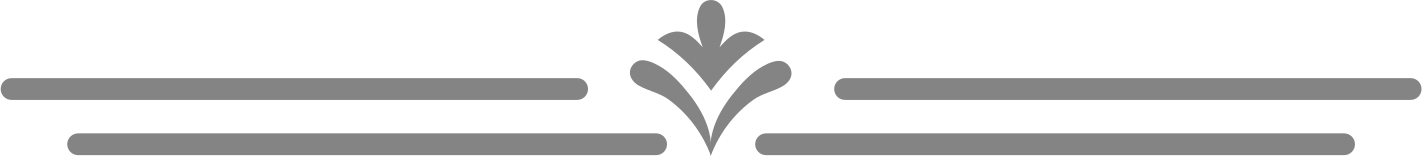
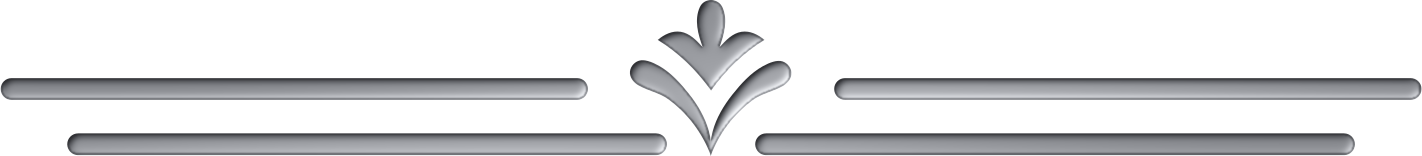
Inner title page (silver cover) and credits page; antique silver ornaments across the booklet (sources, in progress)
Claude-Session: https://claude.ai/code/session_0161ijXJJcwCxR7y44e5HXLU

Changed region(s): [[0.0, 0.0, 0.9592, 1.0], [0.5879, 0.4872, 1.0, 0.641]]

diff --git a/typeset/engine.js b/typeset/engine.js
@@ -38,7 +38,7 @@
   // the two curved lines and the two lines under the circle in FrankRuehl DP.  Everything is laid out in a 1408 x 2000 unit grid (= the page, 8 units per mm).
   function coverHTML(cfg, bookName, opt) {
     opt = opt || {};
-    const C = cfg.cover, G = C.geometry, T = Object.assign({}, C.texts || {}, opt.texts || {}), col = C.colors, dy = opt.dy || 0;
+    const C = cfg.cover, G = C.geometry, T = Object.assign({}, C.texts || {}, opt.texts || {}), col = opt.colors || C.colors, dy = opt.dy || 0;
     const image = opt.image || C.image;
     const uid = opt.uid || '';          // ids of the gradients / arcs must be unique in the document (the book holds the cover and all the dividers)
     const words = bookName.split(/\s+/).filter(Boolean);
@@ -89,7 +89,7 @@
       `<svg xmlns="http://www.w3.org/2000/svg" viewBox="0 0 1408 2000" style="position:absolute;left:0;top:0;width:100%;height:100%">` +
       `<defs><path id="cvTop${uid}" d="${arc(G.top, 1)}"/><path id="cvBot${uid}" d="${arc(G.bottom, 0)}"/>${gradDefs}</defs>` +
       (opt.group ? `<g transform="${opt.group}">${medal}</g>` : medal) + labels +
-      (lg ? `<image href="${C.logo.image}" x="${(lg.x - lw / 2).toFixed(1)}" y="${lg.top}" width="${lw.toFixed(1)}" height="${lg.h}"/>` : '') +
+      (lg ? `<image href="${opt.logoImage || C.logo.image}" x="${(lg.x - lw / 2).toFixed(1)}" y="${lg.top}" width="${lw.toFixed(1)}" height="${lg.h}"/>` : '') +
       `</svg>`;
   }
 
@@ -110,6 +110,27 @@
     return coverHTML(c2, bookName, { uid: 'd' + (dividerHTML.n = (dividerHTML.n || 0) + 1), image: D.image, logo: false, texts: Object.assign({ line1: '', line2: '' }, m.arcs === false ? { arcTop: '', arcBottom: [] } : {}),
       group: `translate(${m.cx * 8} ${m.cy * 8}) scale(${m.scale}) translate(-711 -749)`,
       labels: [mk(l1, Lb.y1, Lb.size1), mk(l2, Lb.y2, short ? Lb.numeral : Lb.word)].filter((x) => x.txt) });
+  }
+
+  // the inner title page: the cover again, in black / white / grey / silver (artwork by make_cover.py: the silver palette; logo in grey)
+  function innerCoverHTML(cfg, bookName) {
+    const IC = cfg.innerCover;
+    return coverHTML(cfg, bookName, { uid: 'ic', image: IC.image, colors: IC.colors || (cfg.divider && cfg.divider.colors) || cfg.cover.colors, logoImage: IC.logo });
+  }
+
+  // the credits page: the two ornamented pillars of the dividers (artwork by make_divider.py, kind 'credits'), all the details between them, the small flourish between the
+  // details; the items (texts, logos, separators) are listed in config.json -> credits.items
+  function creditsHTML(cfg) {
+    const K = cfg.credits, F = cfg.fonts || {}, axis = (cfg.divider && cfg.divider.axis) || 57.7, fam = { body: F.body, display: F.display, lead: F.lead };
+    const gapOf = (it) => (it.gap !== undefined ? it.gap : K.gap);
+    const items = K.items.map((it) => {
+      if (it.sep) return `<img src="${K.sep.image}" style="width:${K.sep.w}mm;display:block;margin:0 0 ${gapOf(it)}mm">`;
+      if (it.logo) return `<img src="${it.logo}" style="width:${it.w}mm;display:block;margin:0 0 ${gapOf(it)}mm">`;
+      return `<div style="font-family:'${fam[it.font || 'body']}';font-size:${it.size}pt;line-height:${it.lh || 1.3};${it.bold ? 'font-weight:700;' : ''}margin:0 0 ${gapOf(it)}mm">${it.html}</div>`;
+    }).join('');
+    return `<img src="${K.image}" style="position:absolute;left:0;top:0;width:100%;height:100%">` +
+      `<style>.crd b{font-weight:700}</style>` +
+      `<div class="crd" style="position:absolute;left:${(axis - K.box.w / 2).toFixed(2)}mm;width:${K.box.w}mm;top:${K.box.top}mm;bottom:${K.box.bottom}mm;display:flex;flex-direction:column;align-items:center;justify-content:center;text-align:center;direction:rtl;color:#1c1c1c">${items}</div>`;
   }
 
   // ---------------------------------------------------------------- engine
@@ -667,7 +688,9 @@
       return res;
     }
     function frameHTML(b, cls) {
+      const cl = ORN['title-cloud'];                                   // a faint cloud of aged paper behind the title (antique ornament style)
       return `<div class="tframe ${cls || ''}" style="width:${b.W.toFixed(2)}px;height:${b.H.toFixed(2)}px">` +
+        (cl && cls === 'ttl' ? `<div class="fcloud" style="left:${(b.cw * 0.45).toFixed(2)}px;right:${(b.crw * 0.45).toFixed(2)}px;top:-6%;bottom:-6%;background-image:url(${cl.src})"></div>` : '') +
         `<div class="fcap" style="left:0;width:${b.cw.toFixed(2)}px;background-image:url(${capL.src})"></div>` +
         `<div class="fmid" style="left:${b.cw.toFixed(2)}px;width:${(b.W - b.cw - b.crw).toFixed(2)}px;background-image:url(${capM.src})"></div>` +
         `<div class="fcap" style="right:0;width:${b.crw.toFixed(2)}px;background-image:url(${capR.src})"></div>` +
@@ -805,6 +828,18 @@
       pg.classList.add('cover');
       pg.innerHTML = (cfg.cover && cfg.cover.enabled) ? coverHTML(cfg, bookName) : `<div class="cover-in">${oimg('flourish-wide-1', 70, '', '')}<div class="cv-title">${esc(bookName)}</div>${doc.book.subtitle ? `<div class="cv-sub">${esc(doc.book.subtitle)}</div>` : ''}${oimg('flourish-wide-1', 70, '', 'transform:scaleY(-1);')}</div>`;
       root.appendChild(pg);
+      if (cfg.innerCover && cfg.innerCover.enabled) {          // the inner title page and the credits page follow the cover; neither is numbered or counted
+        const ic = newPage();
+        ic.classList.add('cover');
+        ic.innerHTML = innerCoverHTML(cfg, bookName);
+        root.appendChild(ic);
+      }
+      if (cfg.credits && cfg.credits.enabled) {
+        const cr = newPage();
+        cr.classList.add('cover');
+        cr.innerHTML = creditsHTML(cfg);
+        root.appendChild(cr);
+      }
     }
     const hdrCache = new Map();
     function headerTitle(art) {
@@ -1005,5 +1040,7 @@
   window.typeset = typeset;
   window.coverHTML = coverHTML;
   window.dividerHTML = dividerHTML;
+  window.innerCoverHTML = innerCoverHTML;
+  window.creditsHTML = creditsHTML;
   window.hebNum = heb;
 })();

diff --git a/typeset/build.js b/typeset/build.js
@@ -26,6 +26,9 @@ try { ({ chromium } = require('playwright')); } catch (e) { ({ chromium } = requ
     if (!cfg.cover.enabled) console.log('note: cover background', cfg.cover.image, 'not found (run make_cover.py) - placeholder cover used');
   }
   if (cfg.divider) cfg.divider.enabled = !!(cfg.cover && cfg.cover.enabled) && fs.existsSync(path.join(__dirname, cfg.divider.image));
+  if (cfg.innerCover) cfg.innerCover.enabled = !!(cfg.cover && cfg.cover.enabled) && fs.existsSync(path.join(__dirname, cfg.innerCover.image));          // inner title page (silver cover) and credits page
+  if (cfg.credits) cfg.credits.enabled = !!(cfg.cover && cfg.cover.enabled) && fs.existsSync(path.join(__dirname, cfg.credits.image));
+  if (cfg.innerCover && cfg.divider && cfg.divider.colors) cfg.innerCover.colors = cfg.innerCover.colors || cfg.divider.colors;
   cfg.ornaments = {};
   const odir = path.join(__dirname, 'assets', 'ornaments');
   for (const f of fs.readdirSync(odir)) {
@@ -183,6 +186,23 @@ try { ({ chromium } = require('playwright')); } catch (e) { ({ chromium } = requ
     await cp.evaluate(() => Promise.all([...document.images].map((i) => i.decode().catch(() => {}))));
     await cp.locator('#cv').screenshot({ path: path.join(outDir, 'cover.jpg'), type: 'jpeg', quality: 93 });
     await cp.pdf({ path: path.join(outDir, 'cover.pdf'), width: '176mm', height: '250mm', printBackground: true, preferCSSPageSize: true });
+  }
+  if (cfg.cover && cfg.cover.enabled && !doc.noCover && ((cfg.innerCover && cfg.innerCover.enabled) || (cfg.credits && cfg.credits.enabled))) {          // inner title page and credits page as pictures (Word)
+    const outDir = path.dirname(outPdf);
+    const ip = await browser.newPage({ viewport: { width: 700, height: 1000 }, deviceScaleFactor: 2079 / (176 * 96 / 25.4) });
+    await ip.goto('file://' + path.join(__dirname, 'template.html'));
+    await ip.addStyleTag({ content: styleCss });
+    await ip.addScriptTag({ path: path.join(__dirname, 'engine.js') });
+    await ip.evaluate(async (fams) => { await Promise.all(fams.flatMap((f) => [400, 700].map((w) => document.fonts.load(w + ' 16px "' + f + '"', 'אבג')))); await document.fonts.ready; }, [cfg.cover.fontTitle, cfg.cover.fontArc, cfg.cover.fontLines, cfg.fonts.body, cfg.fonts.display, cfg.fonts.lead]);
+    for (const [key, fn, file] of [['innerCover', 'innerCoverHTML', 'inner-cover.jpg'], ['credits', 'creditsHTML', 'credits.jpg']]) {
+      if (!(cfg[key] && cfg[key].enabled)) continue;
+      await ip.evaluate(([c, name, f]) => {
+        document.body.style.margin = '0';
+        document.body.innerHTML = '<div id="cv" class="page cover" style="width:176mm;height:250mm;position:relative;overflow:hidden">' + window[f](c, name) + '</div>';
+      }, [cfg, doc.book.name, fn]);
+      await ip.evaluate(() => Promise.all([...document.images].map((i) => i.decode().catch(() => {}))));
+      await ip.locator('#cv').screenshot({ path: path.join(outDir, file), type: 'jpeg', quality: 93 });
+    }
   }
   if (cfg.divider && cfg.divider.enabled && res.dividers && res.dividers.length) {          // one picture per internal title page (used in the Word file)
     const outDir = path.join(path.dirname(outPdf), 'dividers');

diff --git a/typeset/pages_preview.js b/typeset/pages_preview.js
@@ -1,0 +1,25 @@
+#!/usr/bin/env node
+/* usage: node pages_preview.js out_dir   -> out_dir/inner-cover.png and out_dir/credits.png (the inner title page and the credits page, as they will be in the booklet) */
+const fs = require('fs'), path = require('path');
+let chromium;
+try { ({ chromium } = require('playwright')); } catch (e) { ({ chromium } = require('/opt/node22/lib/node_modules/playwright')); }
+(async () => {
+  const outDir = process.argv[2] || 'out';
+  const cfg = JSON.parse(fs.readFileSync(path.join(__dirname, 'config.json'), 'utf8'));
+  const doc = JSON.parse(fs.readFileSync(path.join(__dirname, 'book.doc.json'), 'utf8'));
+  cfg.cover.colors = cfg.cover.palettes[cfg.cover.palette];
+  if (cfg.innerCover && !cfg.innerCover.colors) cfg.innerCover.colors = cfg.divider.colors;
+  const css = (cfg.fontFaces || []).map((f) => `@font-face{font-family:"${f.family}";font-weight:${f.weight || 400};src:url("assets/fonts/${f.file}");}`).join('\n');
+  const browser = await chromium.launch();
+  const p = await browser.newPage({ viewport: { width: 700, height: 1000 }, deviceScaleFactor: 2 });
+  await p.goto('file://' + path.join(__dirname, 'template.html'));
+  await p.addStyleTag({ content: css });
+  await p.addScriptTag({ path: path.join(__dirname, 'engine.js') });
+  await p.evaluate(async (f) => { await Promise.all(f.flatMap((x) => [400, 700].map((w) => document.fonts.load(w + ' 16px "' + x + '"', 'אבג')))); }, [cfg.cover.fontTitle, cfg.cover.fontArc, cfg.cover.fontLines, cfg.fonts.body, cfg.fonts.display, cfg.fonts.lead]);
+  for (const [fn, file] of [['innerCoverHTML', 'inner-cover.png'], ['creditsHTML', 'credits.png']]) {
+    await p.evaluate(([c, n, f]) => { document.body.style.margin = '0'; document.body.innerHTML = '<div id="cv" class="page cover" style="width:176mm;height:250mm;position:relative;overflow:hidden">' + window[f](c, n) + '</div>'; }, [cfg, doc.book.name, fn]);
+    await p.evaluate(() => Promise.all([...document.images].map((im) => im.decode().catch(() => {}))));
+    await p.locator('#cv').screenshot({ path: path.join(outDir, file) });
+  }
+  await browser.close();
+})();

diff --git a/typeset/template.html b/typeset/template.html
@@ -77,6 +77,7 @@ table.bt { border-collapse: collapse; margin: 0 auto; font-family: var(--f-body)
 .banner .lframe span { position: absolute; left: 0; right: 0; top: 0; bottom: 0; display: flex; align-items: center; justify-content: center; font: var(--w-lead) 13pt var(--f-lead); line-height: 1; padding-top: 0.3mm; }
 .tbox { display: flex; justify-content: center; margin: 2mm auto 0; line-height: 0; }
 .tframe { position: relative; flex: none; }
+.fcloud { position: absolute; background-size: 100% 100%; background-repeat: no-repeat; }
 .fcap, .fmid { position: absolute; top: 0; height: 100%; background-size: 100% 100%; background-repeat: no-repeat; }
 .ftext { position: absolute; left: 0; right: 0; top: 0; bottom: 0; display: flex; flex-direction: column; align-items: center; justify-content: center; text-align: center; font-family: var(--f-display); font-weight: var(--w-display); font-size: 16.5pt; color: #000; white-space: nowrap; }
 .tframe.dv .ftext { font-size: 30pt; }

diff --git a/typeset/make_divider.py b/typeset/make_divider.py
@@ -25,10 +25,8 @@ FLEURON_BOTTOM = (630, 948, 792, 988)
 CORNER = 335                            # the corner blocks (ornaments + rails) of the cover frame, in artwork units
 RAIL_T = 62                             # thickness of the rails of the frame
 
-SILVER_RAMP = [(0.00, (20, 20, 22)), (0.18, (62, 63, 67)), (0.38, (118, 120, 125)), (0.58, (170, 172, 177)),
-               (0.78, (214, 216, 220)), (0.92, (242, 244, 247)), (1.00, (255, 255, 255))]            # the frame: dark steel .. bright silver
-SWASH_SILVER_RAMP = [(0.00, (14, 14, 16)), (0.18, (52, 53, 57)), (0.38, (104, 106, 111)), (0.58, (166, 168, 173)),
-                     (0.78, (222, 224, 228)), (0.92, (248, 249, 251)), (1.00, (255, 255, 255))]       # the swash: brilliant silver running into dark steel
+SILVER_RAMP = mc.SILVER_RAMP                         # the frame: dark steel .. bright silver
+SWASH_SILVER_RAMP = mc.SILVER_SWASH_RAMP                # the swash: brilliant silver running into dark steel
 FRAME_GRADE = dict(gamma=0.72, contrast=1.06, bright=0.08, sheen=0.10, waves=1.5, phase=0.12)         # grading of the frame: lighter than the gold of the cover, silver
 SWASH = dict(gamma=0.90, contrast=1.10, bright=0.02)
 
@@ -236,9 +234,13 @@ def draw_frame(page, bg, a, frame, geom, L, seed, fade_x=None, lighten=None, orn
     page[:] = page * (1 - Am) + cm * Am
 
 
-def build(out=None, layout=None):
+def build(out=None, layout=None, kind='divider'):
+    """kind 'divider': pillars + medallion + flourishes (siman divider); kind 'credits': the pillars alone (the credits page puts its text between them)"""
     cfg = json.load(open(os.path.join(HERE, 'config.json'), encoding='utf8'))
-    L = layout or cfg['divider']
+    variant = kind                                                        # (the loops below reuse the name `kind`)
+    L = dict(layout or cfg['divider'])
+    if variant == 'credits':
+        L.update((cfg.get('credits') or {}).get('layout') or {})
     cache = os.environ.get('DIVIDER_CACHE')
     if cache and os.path.exists(cache):                                   # development: the slow steps below are kept in a pickle
         import pickle
@@ -296,7 +298,11 @@ def build(out=None, layout=None):
     while y > -P['bleed']:                                                 # ... and upwards
         kind, flip, h = cycle[i % 4]
         y -= h + og['gap']; pieces.append((kind, u(y), flip)); i -= 1
-    draw_frame(page, bg, a, frame, (int(round(lcx * MM)) - pw // 2, -int(round(P['bleed'] * MM)), pw, ph, 0), L, 2, lighten=lighten, orns=pieces)
+    draw_frame(page, bg, a, frame, (int(round(lcx * MM)) - pw // 2, -int(round(P['bleed'] * MM)), pw, ph, 0), L, 2, lighten=(None if variant == 'credits' else lighten), orns=pieces)
+    if variant == 'credits':                                                  # nothing stands over the pillars on the credits page
+        out = out or os.path.join(HERE, 'assets', 'cover', 'credits-bg.jpg')
+        to_img(page).save(out, quality=92, subsampling=0, optimize=True)
+        return out
 
     # ---- the title block of the medallion: black ink (multiplied onto the page, without the rings) + silver swash
     bx0, by0m, bx1, by1m = mc.MEDALLION_BOX
@@ -349,6 +355,25 @@ def build(out=None, layout=None):
     out = out or os.path.join(HERE, 'assets', 'cover', 'divider-bg.jpg')
     to_img(page).save(out, quality=92, subsampling=0, optimize=True)
     return out
+
+
+def make_assets():
+    """the logo of the organisation in grey (the inner pages have no colour) and the small flourish of the medallion as a picture with alpha (the separator of the credits page)"""
+    logo = Image.open(os.path.join(HERE, 'assets', 'cover', 'logo.png')).convert('RGBA')
+    g = np.asarray(logo).astype(np.float32) / 255.0
+    lum = np.clip(g[..., :3] @ np.array([0.299, 0.587, 0.114], dtype=np.float32), 0, 1)
+    lum = np.clip((lum - 0.10) * 1.12, 0, 1) ** 0.9                          # a little contrast: the navy becomes near black, the gold a mid grey
+    out = np.stack([lum, lum, lum, g[..., 3]], axis=-1)
+    Image.fromarray((out * 255 + 0.5).astype(np.uint8), 'RGBA').save(os.path.join(HERE, 'assets', 'cover', 'logo-grey.png'), optimize=True)
+    src = Image.open(mc.SRC).convert('RGB')
+    clean, a, elem = mc.frame_only(src)
+    ux0, uy0, ux1, uy1 = FLEURON_TOP
+    ink = np.clip(lum_of(np.where(elem[..., None], np.clip(a / np.maximum(clean, 1e-3), 0, 1), 1.0)[uy0:uy1, ux0:ux1]), 0, 1)
+    al = Image.fromarray(((1 - ink) * 255).astype(np.uint8)).resize(((ux1 - ux0) * 4, (uy1 - uy0) * 4), Image.LANCZOS)
+    fl = Image.new('RGBA', al.size, (36, 36, 38, 0))
+    fl.putalpha(al)
+    fl.save(os.path.join(HERE, 'assets', 'cover', 'fleuron-sep.png'), optimize=True)
+    return 'logo-grey.png, fleuron-sep.png'
 
 
 if __name__ == '__main__':

diff --git a/typeset/make_cover.py b/typeset/make_cover.py
@@ -18,7 +18,10 @@ PALETTES = {
     # darker brown + a brighter, warmer gold (olive / grey casts of the old gilding pulled towards one golden hue, shadows and highlights kept)
     'brown':    dict(t1=26, s1=2.30, v1=0.52, name='חום כהה וזהב בוהק',
                      gold=dict(gamma=0.96, contrast=1.04, bright=0.03, sheen=0.12, waves=1.5, phase=0.12),
-                     swash=dict(gamma=0.90, contrast=1.10, bright=0.02)),
+                                      swash=dict(gamma=0.90, contrast=1.10, bright=0.02)),
+    # the inner title page: the same cover in black / white / grey / silver (no colour: the frame and the swash silver, everything else grey)
+    'silver':   dict(t1=0, s1=0.0, v1=0.68, name='כסף', gold=dict(gamma=0.72, contrast=1.06, bright=0.08, sheen=0.10, waves=1.5, phase=0.12),
+                     swash=dict(gamma=0.90, contrast=1.10, bright=0.02), frame_ramp='SILVER_RAMP', swash_ramp='SILVER_SWASH_RAMP'),
 }
 
 
@@ -79,6 +82,10 @@ GOLD_RAMP = [(0.00, (46, 28, 8)), (0.20, (100, 66, 16)), (0.40, (152, 106, 26)),
              (0.78, (226, 180, 70)), (0.92, (244, 210, 112)), (1.00, (252, 236, 162))]            # the frame: rich, not heavy
 SWASH_RAMP = [(0.00, (26, 14, 4)), (0.18, (84, 52, 12)), (0.38, (150, 102, 22)), (0.58, (208, 158, 40)),
               (0.78, (244, 204, 84)), (0.92, (255, 236, 150)), (1.00, (255, 250, 222))]           # the swash: brilliant gold running into dark bronze
+SILVER_RAMP = [(0.00, (20, 20, 22)), (0.18, (62, 63, 67)), (0.38, (118, 120, 125)), (0.58, (170, 172, 177)),
+               (0.78, (214, 216, 220)), (0.92, (242, 244, 247)), (1.00, (255, 255, 255))]            # silver frame: dark steel .. bright silver
+SILVER_SWASH_RAMP = [(0.00, (14, 14, 16)), (0.18, (52, 53, 57)), (0.38, (104, 106, 111)), (0.58, (166, 168, 173)),
+                     (0.78, (222, 224, 228)), (0.92, (248, 249, 251)), (1.00, (255, 255, 255))]       # silver swash: brilliant silver running into dark steel
 RING_RECT = ((79, 56, 1329, 1947), (140, 112, 1266, 1876))        # outer / inner rectangle of the frame band, in the 1408 x 2000 artwork
 RING_CIRCLES = ((711.0, 749.0, 329.0), (711.0, 749.0, 342.0))      # the two thin rings of the title medallion
 SWASH_BOX = (285, 560, 640, 800)                                  # the left swash (curl) next to the title
@@ -157,8 +164,8 @@ def recolor(img, p, masks):
             tt = (xx / Ww * 0.62 + yy / Hh * 0.38) * gp.get('waves', 1.5) + gp.get('phase', 0.12)
             lg = np.clip(lg * (1 - gp['sheen'] + 2 * gp['sheen'] * (0.5 + 0.5 * np.cos(2 * np.pi * tt))), 0, 1)
         return lg
-    frame_rgb = gold_ramp(graded(g, True))
-    swash_rgb = gold_ramp(graded(p['swash'], False), SWASH_RAMP)
+    frame_rgb = gold_ramp(graded(g, True), globals()[p['frame_ramp']] if p.get('frame_ramp') else None)
+    swash_rgb = gold_ramp(graded(p['swash'], False), globals()[p['swash_ramp']] if p.get('swash_ramp') else SWASH_RAMP)
     tone = hsv_to_rgb(np.full_like(h, p['t1']), np.clip(s * p['s1'], 0, 1), np.clip(v * (1 + (p['v1'] - 1) * np.clip(s * 3.0, 0, 1)), 0, 1))     # white stays white
     wf, ws = np.clip(frame, 0, 1)[..., None], np.clip(swash, 0, 1)[..., None]
     out = tone
@@ -231,6 +238,11 @@ if __name__ == '__main__':
     pal = sys.argv[1] if len(sys.argv) > 1 else (cfg.get('cover') or {}).get('palette', 'navy')
     out = sys.argv[2] if len(sys.argv) > 2 else None
     print('cover background:', build(pal, out), pal)
-    if len(sys.argv) <= 2 and cfg.get('divider'):               # also the artwork of the internal title pages (siman dividers, grey / silver)
+    if len(sys.argv) <= 2 and cfg.get('innerCover'):              # the inner title page: the same cover in black / white / grey / silver
+        print('inner cover background:', build('silver', os.path.join(HERE, 'assets', 'cover', 'inner-cover-bg.jpg')))
+    if len(sys.argv) <= 2 and cfg.get('divider'):               # also the artwork of the internal title pages (siman dividers, grey / silver) and of the credits page
         import make_divider
         print('divider background:', make_divider.build())
+        if cfg.get('credits'):
+            print('credits background:', make_divider.build(kind='credits'))
+        make_divider.make_assets()

diff --git a/typeset/compose_ornaments.py b/typeset/compose_ornaments.py
@@ -54,8 +54,9 @@ def frame_slices():
     return im.crop((0, 0, FRAME_CAP_L, im.height)), im.crop((FRAME_CAP_R, 0, im.width, im.height)), im.crop((FRAME_MID[0], 0, FRAME_MID[1], im.height))
 
 
-def frame_png(width_mm, height_mm):
-    """frame ornament of exactly width x height (mm): caps keep their shape, the middle line section is stretched."""
+def frame_png(width_mm, height_mm, cloud=False):
+    """frame ornament of exactly width x height (mm): caps keep their shape, the middle line section is stretched.  cloud: the faint cloud of aged paper behind the title
+    (assets/ornaments/title-cloud.png, if the antique ornament set made it) goes under the frame, as the PDF engine draws it."""
     capL, capR, mid = frame_slices()
     H = round(height_mm * PX_MM)
     s = H / capL.height
@@ -64,6 +65,13 @@ def frame_png(width_mm, height_mm):
     cr = capR.resize((max(1, round(capR.width * s)), H), Image.LANCZOS)
     rest = max(1, W - cl.width - cr.width)
     out = Image.new('RGBA', (cl.width + rest + cr.width, H), (0, 0, 0, 0))
+    cpath = os.path.join(SRC, 'title-cloud.png')
+    if cloud and os.path.exists(cpath):
+        x0, x1 = round(cl.width * 0.45), out.width - round(cr.width * 0.45)             # the same box as in the engine: 45 % of the caps in from both ends, 6 % beyond top and bottom
+        ch = round(H * 1.12)
+        c = Image.open(cpath).convert('RGBA').resize((max(1, x1 - x0), ch), Image.LANCZOS)
+        top = round(H * 0.06)
+        out.alpha_composite(c.crop((0, top, c.width, top + H)), (x0, 0))
     out.alpha_composite(cl, (0, 0))
     out.alpha_composite(mid.resize((rest, H), Image.BILINEAR), (cl.width, 0))
     out.alpha_composite(cr, (cl.width + rest, 0))
@@ -93,7 +101,7 @@ def word_frames(layout_path):
     for key, boxes in (('titleBoxes', lay.get('titleBoxes', {})), ('dividerBoxes', lay.get('dividerBoxes', {}))):
         for k, b in boxes.items():
             name = f'{key[:-5]}-{k}.png'
-            frame_png(b['wmm'], b['hmm']).save(os.path.join(OUT, name), optimize=True)
+            frame_png(b['wmm'], b['hmm'], cloud=(key == 'titleBoxes')).save(os.path.join(OUT, name), optimize=True)
             b['png'] = name
             n += 1
     json.dump(lay, open(layout_path, 'w'), ensure_ascii=False, indent=1)

diff --git a/typeset/antique_ornaments.py b/typeset/antique_ornaments.py
@@ -53,6 +53,28 @@ def antique(im, bevel=BEVEL, sheen=SHEEN, rim=RIM, scale=1.0):
     return Image.fromarray((np.clip(out, 0, 1) * 255 + 0.5).astype(np.uint8), 'RGBA')
 
 
+def title_cloud(path, seed=7, W=1800, H=300):
+    """a faint cloud of aged paper (soft, irregular edge, at most 12 % dark) that sits behind the title in its frame"""
+    rng = np.random.default_rng(seed)
+
+    def field(sig, scale=8):
+        n = rng.standard_normal((H // scale + 2, W // scale + 2)).astype(np.float32)
+        n = ndimage.gaussian_filter(n, sig / scale)
+        n = ndimage.zoom(n, scale, order=1)[:H, :W]
+        return (n - n.mean()) / n.std()
+    n = 0.9 * field(60) + 0.6 * field(26) + 0.35 * field(10)
+    n = (n - n.min()) / (n.max() - n.min())
+    yy, xx = np.mgrid[0:H, 0:W].astype(np.float32)
+    dx, dy = np.minimum(xx, W - 1 - xx) / (W * 0.30), np.minimum(yy, H - 1 - yy) / (H * 0.42)
+    edge = np.clip(np.minimum(dx, dy) + (n - 0.5) * 0.55, 0, 1)
+    edge = edge * edge * (3 - 2 * edge)
+    alpha = np.clip(0.03 + 0.09 * n, 0, 1) * edge
+    out = np.zeros((H, W, 4), np.uint8)
+    out[..., :3] = (90, 90, 90)
+    out[..., 3] = (alpha * 255).astype(np.uint8)
+    Image.fromarray(out, 'RGBA').save(path, optimize=True)
+
+
 def main(dst=None, **kw):
     dst = dst or os.path.join(HERE, 'assets', 'ornaments_antique')
     os.makedirs(dst, exist_ok=True)
@@ -61,7 +83,8 @@ def main(dst=None, **kw):
         if f.endswith('.png'):
             antique(Image.open(os.path.join(SRC, f)), **kw).save(os.path.join(dst, f), optimize=True)
             n += 1
-    print('antique silver', n, 'ornaments ->', dst)
+    title_cloud(os.path.join(dst, 'title-cloud.png'))
+    print('antique silver', n, 'ornaments + title cloud ->', dst)
     return dst
 
 

diff --git a/typeset/tint_ornaments.py b/typeset/tint_ornaments.py
@@ -1,7 +1,7 @@
 #!/usr/bin/env python3
-"""All ornaments of the booklet are greyish with a very slight transparency.
-Black masters live in assets/ornaments/_black ; this writes the tinted versions next to them (used by everything else).
-Change GREY / OPACITY to restyle every ornament at once."""
+"""All ornaments of the booklet come from the black masters in assets/ornaments/_black ; this writes the versions that everything else uses next to them.
+Default: embossed antique silver (antique_ornaments.py, the style of the cover and the dividers) + the faint title cloud.
+`python tint_ornaments.py grey` writes the earlier flat grey ones instead (change GREY / OPACITY to restyle those)."""
 import os
 import numpy as np
 from PIL import Image
@@ -22,7 +22,14 @@ def tint(im, grey=GREY, opacity=OPACITY):
     return Image.fromarray(out, 'RGBA')
 
 
-def main():
+def main(style='antique'):
+    if style == 'antique':
+        import antique_ornaments
+        antique_ornaments.main(DST)
+        return
+    cloud = os.path.join(DST, 'title-cloud.png')
+    if os.path.exists(cloud):
+        os.remove(cloud)                                   # the grey set has no cloud behind the titles
     for f in sorted(os.listdir(SRC)):
         if f.endswith('.png'):
             tint(Image.open(os.path.join(SRC, f))).save(os.path.join(DST, f), optimize=True)
@@ -30,4 +37,5 @@ def main():
 
 
 if __name__ == '__main__':
-    main()
+    import sys
+    main(sys.argv[1] if len(sys.argv) > 1 else 'antique')

diff --git a/typeset/make_docx.py b/typeset/make_docx.py
@@ -496,6 +496,12 @@ def build(doc_json, layout_json, cfg_json, out):
                      para(run(book['name']), ST['coverTitle']) +
                      (para(run(book['subtitle']), ST['coverSub']) if book.get('subtitle') else '') +
                      para(picture('flourish-wide-1.png', 70, 'v'), jc='center', sect=sectpr('continuous', 1, empty_ids)))
+    # the inner title page (the cover in black / white / grey) and the credits page follow the cover as page-size pictures (build.js writes them), neither numbered
+    for key, jpg in (('innerCover', 'inner-cover.jpg'), ('credits', 'credits.jpg')):
+        pth = os.path.join(os.path.dirname(os.path.abspath(out)), jpg)
+        if cfg.get('cover') and cfg.get(key) and os.path.exists(pth):
+            MEDIA.add(jpg, open(pth, 'rb').read())
+            parts.append(para(picture_page(jpg, 176, 250), spacing='<w:spacing w:before="0" w:after="0" w:line="240" w:lineRule="auto"/>', sect=sectpr('nextPage', 1, empty_ids)))
 
 
     # table of contents: a real TOC field (outline levels: siman title = 1, article title = 2), with cached entries; running head like the rest of the booklet

diff --git a/typeset/README.md b/typeset/README.md
@@ -57,3 +57,7 @@ Gilding of the cover: the frame band is a geometric ring (`RING_RECT`), the orna
 Internal title pages (siman dividers), a tab-divider look in black / white / grey / silver (no colours inside the book): `make_divider.py` takes the client's empty cover and builds `assets/cover/divider-bg.jpg` - the cloud of the cover (frame and medallion removed) in grey over the whole page, flattened where it is near white and lightened at the edges (`divider.edge`: share of the smoke that is kept); on it two silver pillars, the left and right rail of a frame (assembled from the corner blocks and the straight rails of the cover frame, `assemble_metal`, any size) with a soft smoke edge (`smoke`) on paper, centred on `divider.axis` and running over the whole height of the page (the top and bottom of the frame are outside the page, no fade; `divider.pillars`: width, bleed). The pillars carry the ornaments of the cover frame along their whole length (`divider.ornaments`: `anchor` = where the chain starts, `gap` = space between the pieces, negative = overlap; the chain repeats acanthus scroll hanging down, curl, scroll rising, curl, cut out of the artwork by `orn_piece`; under the circle they are lightened with the pillars). The medallion of the cover - rings, rules, flourishes, swash and all the texts including the curved ones (`divider.medal`: position, scale; `rings` / `arcs` can switch the rings and the curved texts off) - is large enough to cover the pillars completely and to reach beyond them, in the upper part of the page; the pillars are lightened in a soft round zone around it (`divider.lighten`: radius, feather). The siman stands lower between the pillars, centred on the axis of the pillars (`divider.axis`, mm; the circle is centred on it too), in Lulav CLM Bold with the two small flourishes above and below (`divider.label` / `fleurons`). All positions are mm on the 176 x 250 page in config.json → `divider`. The siman is written without geresh / gershayim on the divider and in the ToC bands (PDF and Word). `DIVIDER_CACHE=out/c.pkl python make_divider.py out/bg.jpg` keeps the slow masks in a pickle for quick trials, `node divider_preview.js out/dv bg.jpg [labels]` renders sample pages. `build.js` also writes one picture per divider (`out/dividers/div-<n>.jpg`) for Word.
 
 Body ornaments in the antique silver style of the cover and the dividers (a sample, not yet applied to the booklet): `python antique_ornaments.py [dst]` turns the black masters (`assets/ornaments/_black`) into embossed silver - a bevel lit from the top left, a dark rim, a slow sheen - with exactly the same size and alpha as the grey ones (`tint_ornaments.py`), so nothing in the layout moves and PDF and Word would take them as they take the grey ones. Optionally a faint cloud of aged paper behind the title frame (a soft grey PNG `title-cloud.png`, at most 12 % dark, drawn by `frameHTML` behind the title text). The text, the page and the hanging indents are untouched.
+
+Inner title page and credits page (after the cover, neither numbered nor counted in the Hebrew numbering): `config.json` → `innerCover` = the cover again in black / white / grey / silver (`make_cover.py` palette `silver`, written to `assets/cover/inner-cover-bg.jpg`; the engine's `innerCoverHTML` puts the same live texts on it, the logo in grey `assets/cover/logo-grey.png` made by `make_divider.make_assets`), `credits` = the page with the details of the organisation (`creditsHTML`): the ornamented pillars of the dividers without the circle (`make_divider.build(kind='credits')` → `credits-bg.jpg`) and between them, centred on the same axis, the items listed in `credits.items` (text, logo or the small flourish `assets/cover/fleuron-sep.png` that separates the details; sizes, fonts and gaps per item). The data (name of the organisation, e-mail, phones, the donations logo `assets/cover/nedarim.png`) were taken from the credits page of the client. `build.js` writes `out/inner-cover.jpg` and `out/credits.jpg` for Word, `make_docx.py` puts them after the cover as full-page pictures. `node pages_preview.js out/dv` renders both pages.
+
+Ornaments of the body: `tint_ornaments.py` now writes the antique silver set (`antique_ornaments.py`, see above) plus the faint cloud behind the article titles (`title-cloud.png`, drawn by `frameHTML` in the PDF and by `compose_ornaments.py` in the Word frames); `python tint_ornaments.py grey` brings back the earlier flat grey ornaments.
